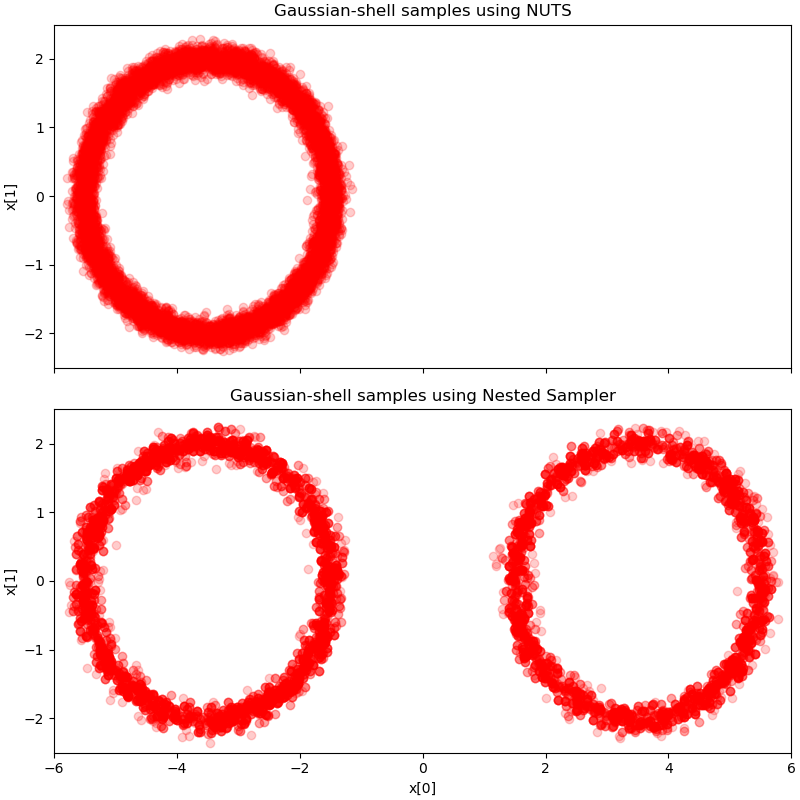
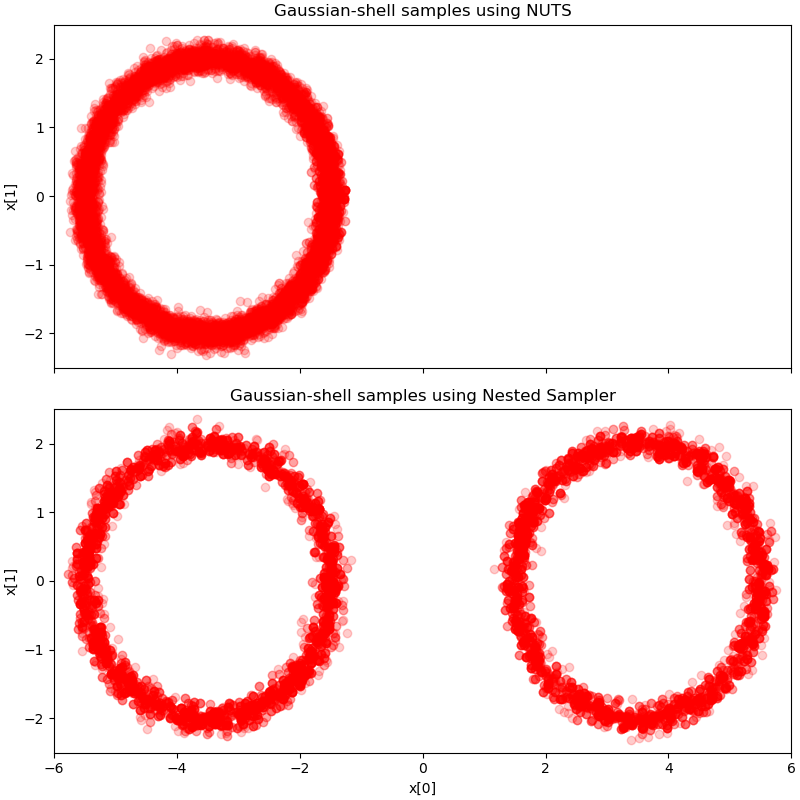
make sure that float32 can be used

diff --git a/numpyro/contrib/nested_sampling.py b/numpyro/contrib/nested_sampling.py
@@ -2,10 +2,10 @@
 # SPDX-License-Identifier: Apache-2.0
 
 from functools import singledispatch
+import warnings
 
 from jax import config, nn, random
 import jax.numpy as jnp
-
 
 try:
     # jaxns uses x64 by default so we need to monkeypatch it here
@@ -14,7 +14,7 @@ try:
     from jaxns.nested_sampling import NestedSampler as OrigNestedSampler
     from jaxns.plotting import plot_cornerplot, plot_diagnostics
     from jaxns.prior_transforms.common import ContinuousPrior
-    from jaxns.prior_transforms.prior_chain import PriorChain
+    from jaxns.prior_transforms.prior_chain import PriorChain, UniformBase
 
     config.update("jax_enable_x64", use_x64)
 except ImportError as e:
@@ -35,7 +35,8 @@ __all__ = ["NestedSampler"]
 
 class UniformPrior(ContinuousPrior):
     def __init__(self, name, shape):
-        super().__init__(name, shape, parents=[], tracked=True)
+        prior_base = UniformBase(shape, jnp.result_type(float))
+        super().__init__(name, shape, parents=[], tracked=True, prior_base=prior_base)
 
     def transform_U(self, U, **kwargs):
         return U
@@ -254,7 +255,13 @@ class NestedSampler:
             num_live_points=self.num_live_points,
             collect_samples=True,
         )
-        results = ns(rng_sampling, termination_frac=self.termination_frac)
+        # some places of jaxns uses float64 and raises some warnings if the default dtype is
+        # float32, so we suppress them here to avoid confusion
+        with warnings.catch_warnings():
+            warnings.filterwarnings(
+                "ignore", message=".*will be truncated to dtype float32.*"
+            )
+            results = ns(rng_sampling, termination_frac=self.termination_frac)
         # transform base samples back to original domains
         # TODO: optimize this logic to only transform the first num_samples samples
         predictive = Predictive(
